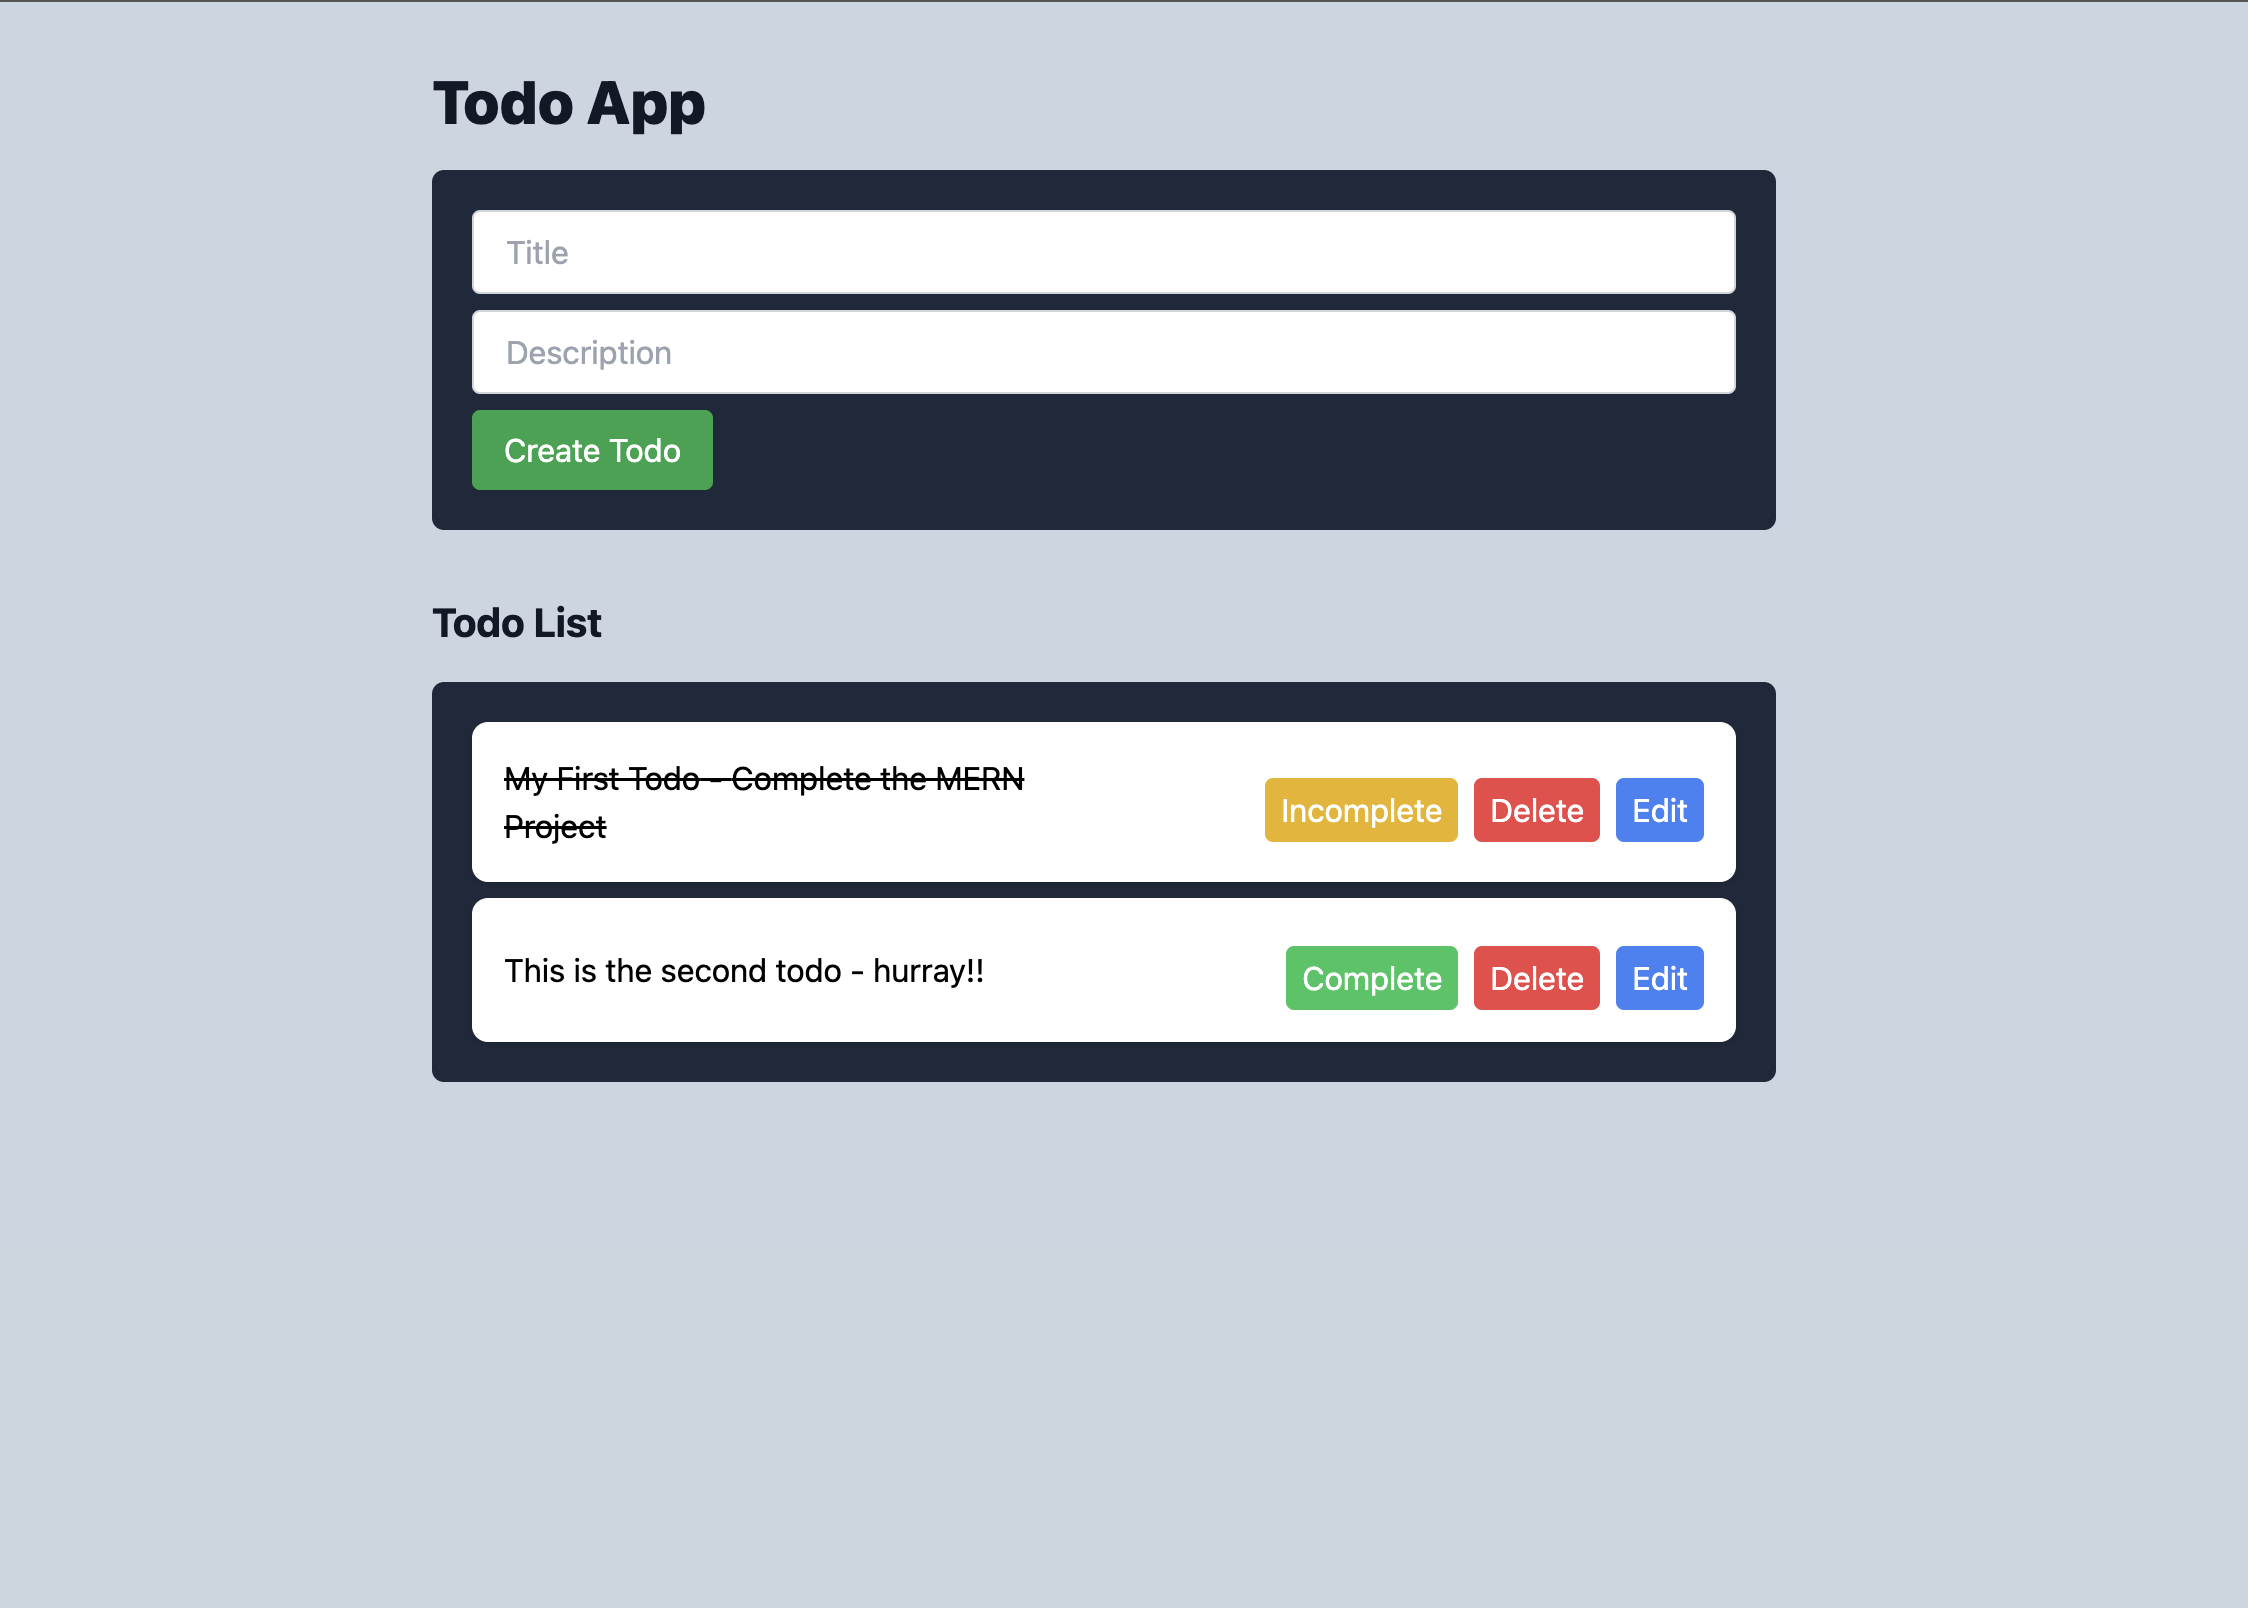
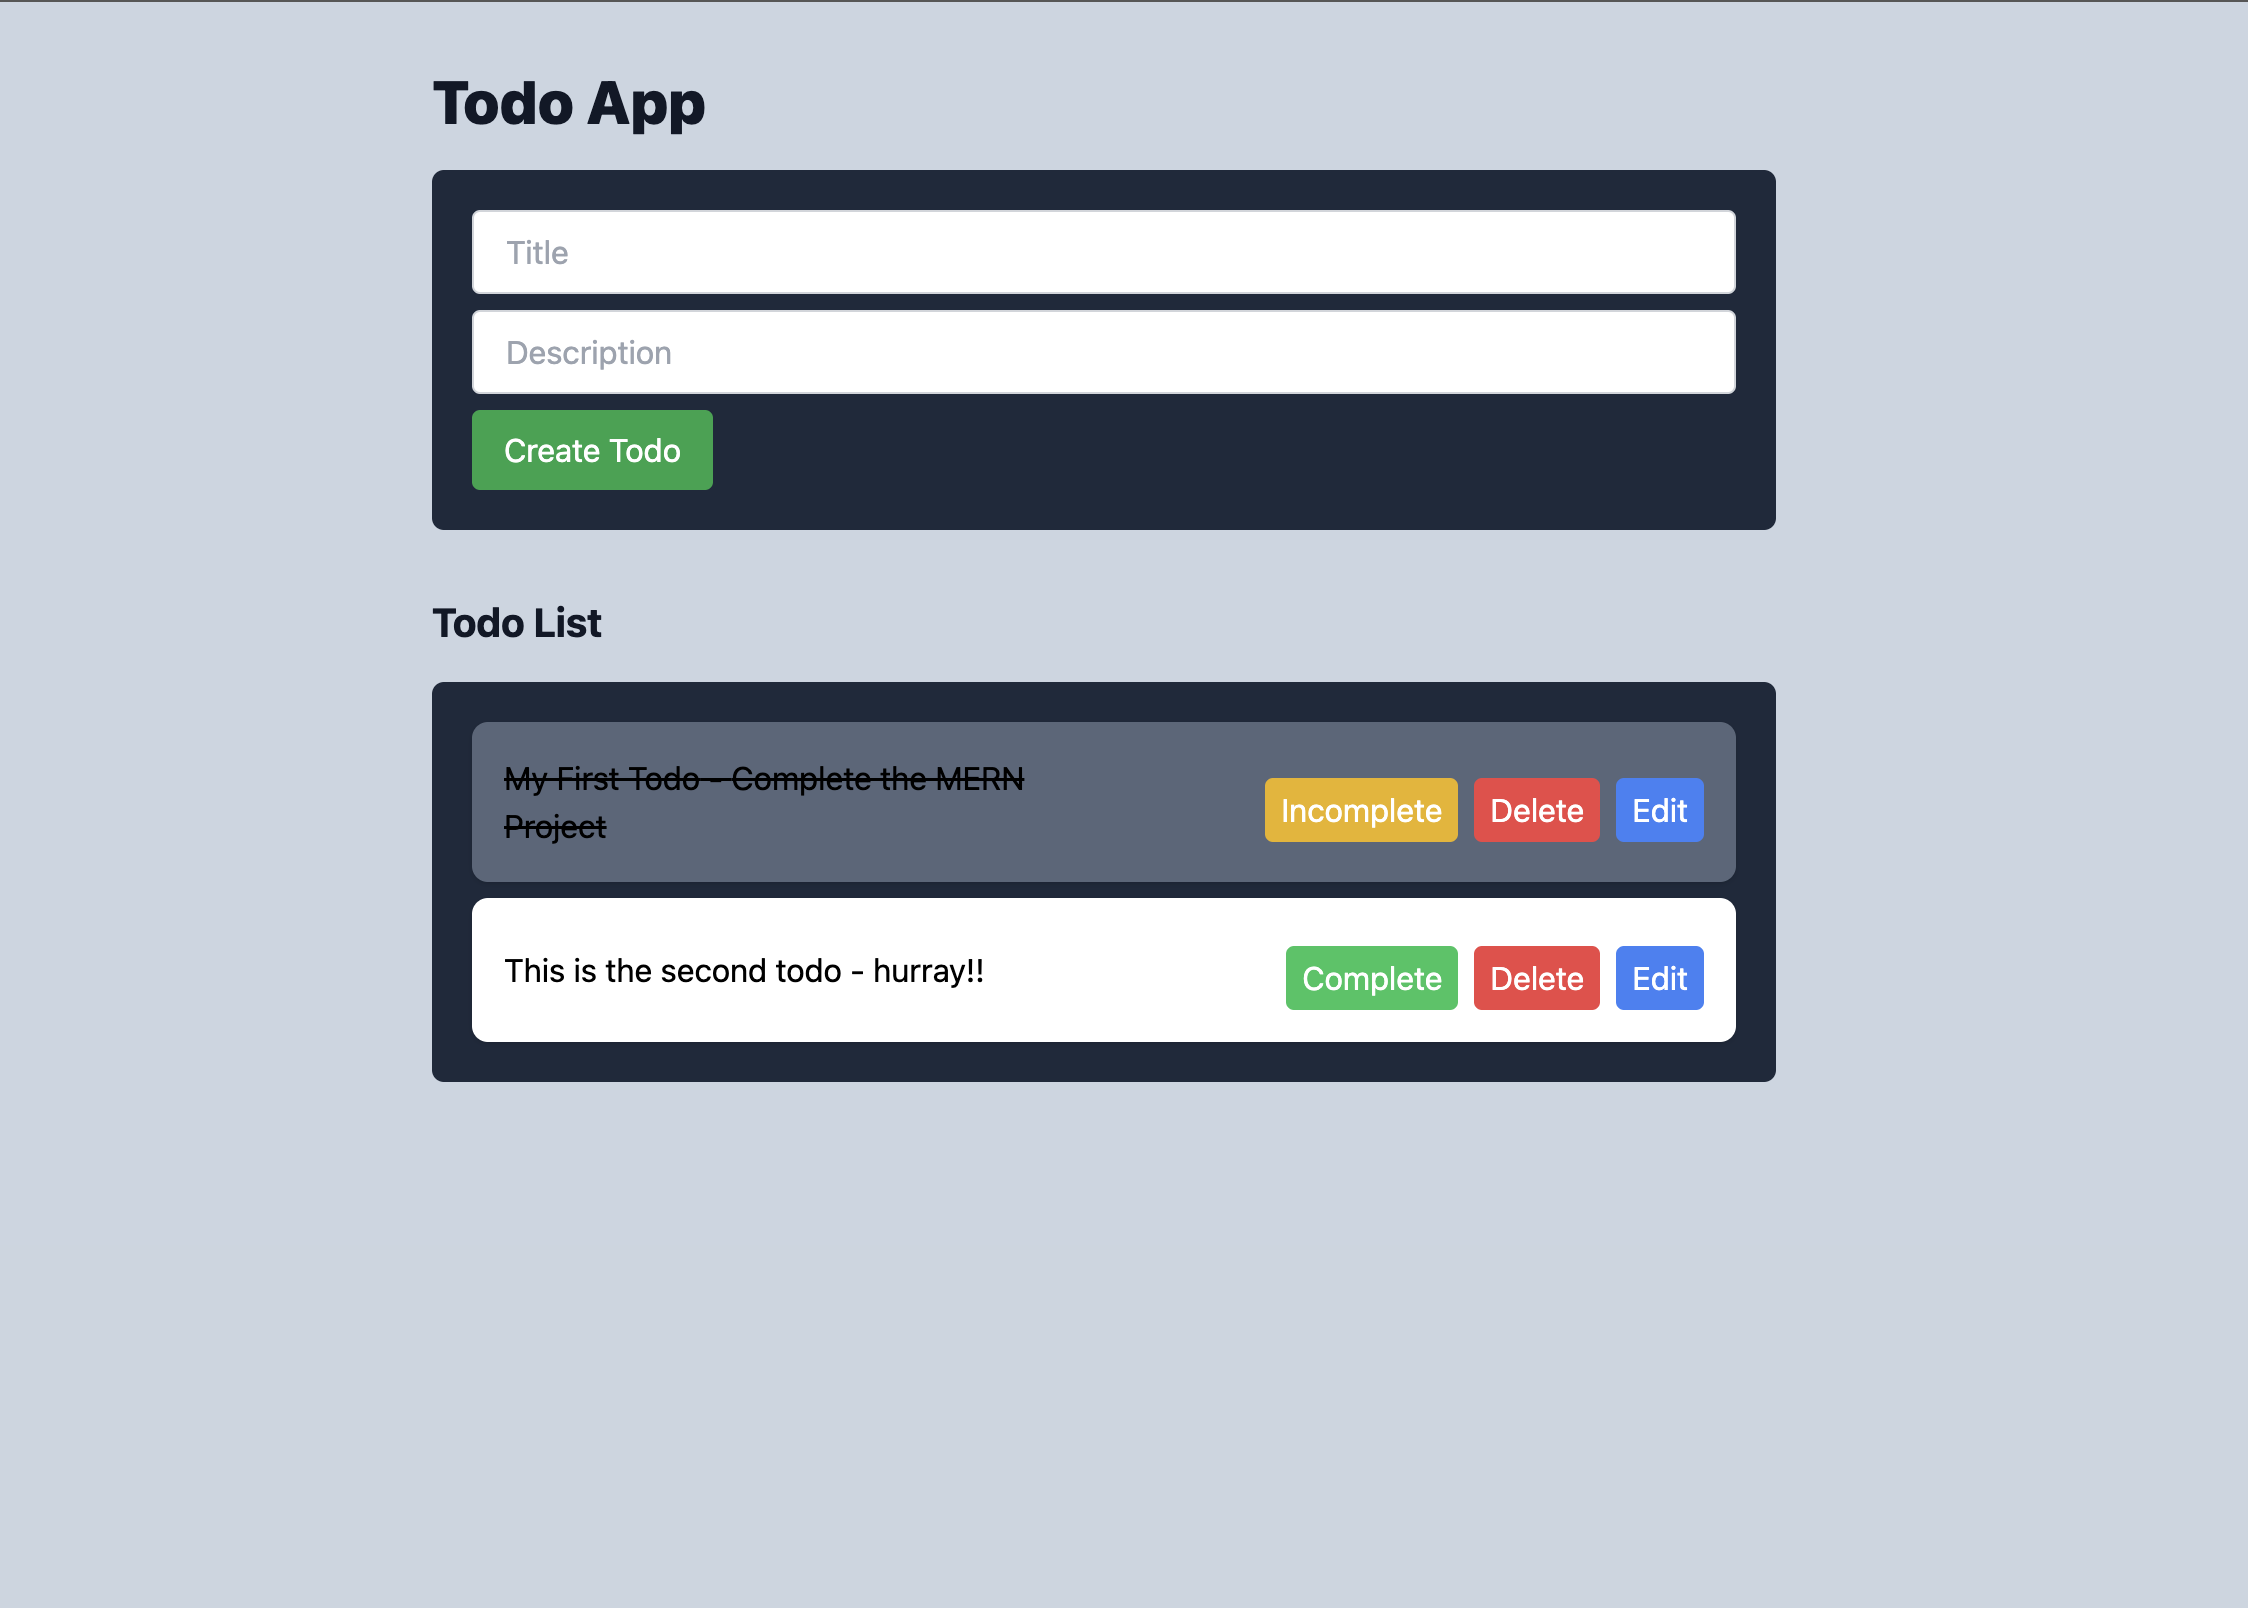
change image

Changed region(s): [[0.1868, 0.4353, 0.7785, 0.5597]]

diff --git a/frontend/src/pages/HomePage.jsx b/frontend/src/pages/HomePage.jsx
@@ -143,8 +143,8 @@ export default function TodoPage() {
               todos.map((todo) => (
                 <li
                   key={todo._id}
-                  className={`flex flex-col md:flex-row space-y-2 items-center justify-between bg-white p-4 shadow rounded-lg ${
-                    todo.completed ? " bg-slate-400/50" : "bg-slate-300"
+                  className={`flex flex-col md:flex-row space-y-2 items-center justify-between p-4 shadow rounded-lg ${
+                    todo.completed ? " bg-slate-400/50" : " bg-white"
                   }`}
                 >
                   <span
